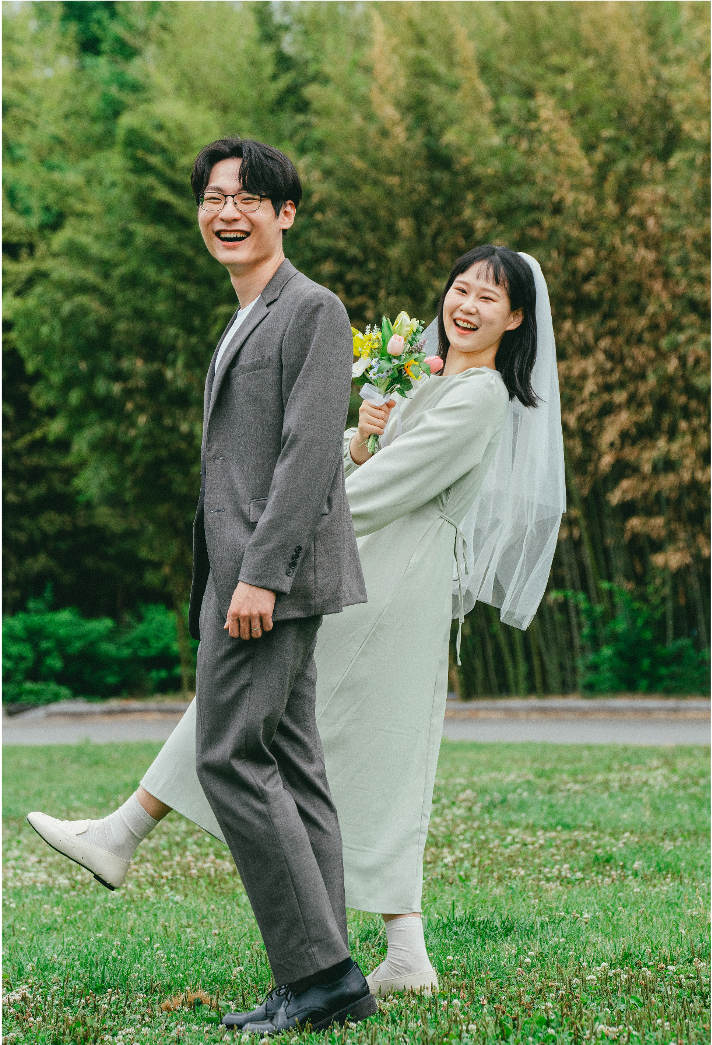
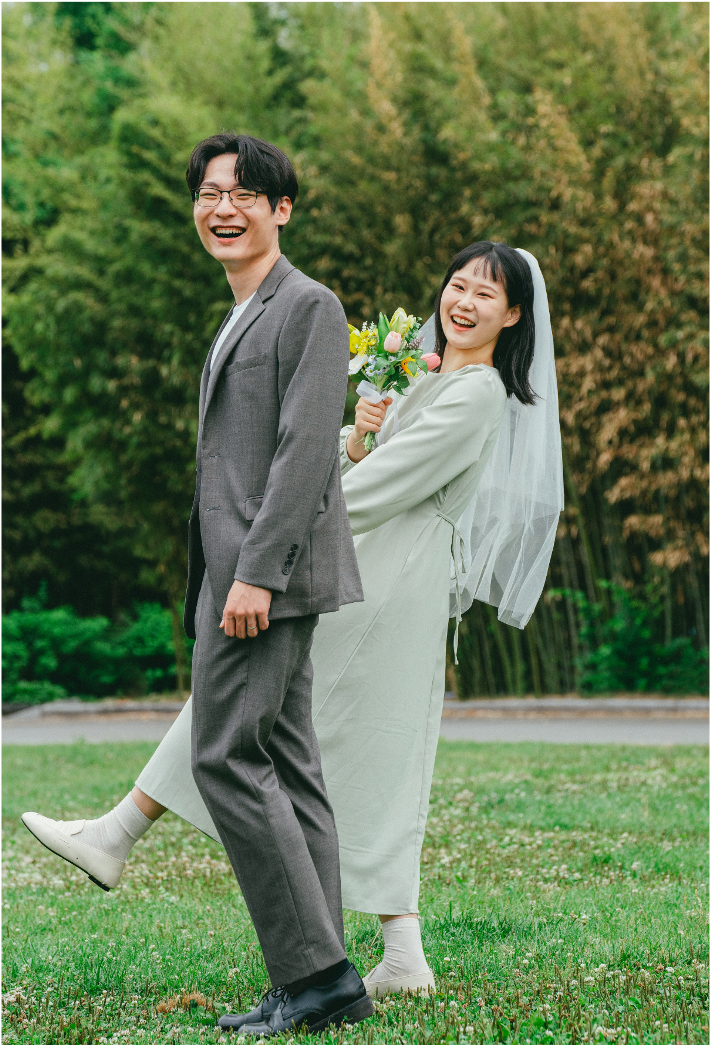
사진 원복

diff --git a/index.html b/index.html
@@ -220,6 +220,9 @@
               <div class="carousel-item">
                 <img src="img/selected/13.png" class="d-block w-100" />
               </div>
+              <div class="carousel-item">
+                <img src="img/selected/14.png" class="d-block w-100" />
+              </div>
             </div>
             <a
               class="carousel-control-prev"
